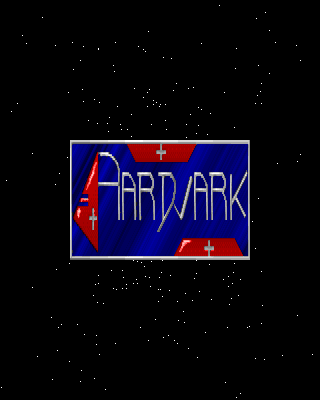
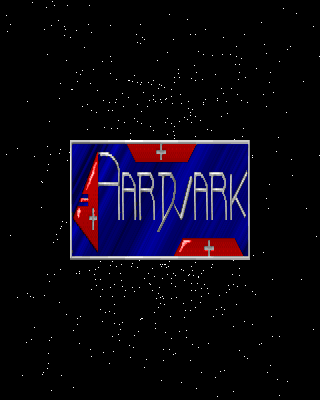
Add the Settlers II DOS demo sources and refresh the DOS corpus shots
sources.md gains a ToyVM DOS game corpus section, kept separate from the
existing scene-demo corpus that tools/toyvm/fetch-demos.js fetches from
Hornet: this one is for official playable DOS game demos and shareware,
mounted with the companion files a game needs rather than as isolated
executables.

The first entry is the six preserved Settlers II DOS demo builds, with the
v1.02 archive inspected locally: 3,579,784 bytes, SHA-256 b3b96739..., 181
entries expanding to 8.8 MB, launched START.BAT -> S2.EXE with DOS4GW, Miles
drivers, maps and music alongside -- so S2.EXE alone is not a valid fixture.
It is a DOS/4GW, VESA, sound and filesystem workload, which is why it is worth
having: it takes the corpus past tiny single-file real-mode intros. No
redistribution grant was found, so the archive stays source-only.

The 18 refreshed corpus screenshots are recaptures of the same programs.

Claude-Session: https://claude.ai/code/session_01Fun73a5xAWbFiCkkqyVuRu

diff --git a/sources.md b/sources.md
@@ -33,7 +33,59 @@ and the payloads must remain out of the repository and deployed site.
   or electronic distribution, so the corpus records only a checksum-pinned,
   local-only fetch recipe.
 
-## Grand Theft Auto demos and Rockstar Classics
+## ToyVM DOS game corpus
+
+This is a separate source collection from ToyVM's scene-demo corpus. The
+existing corpus is fetched from the Hornet scene archive by
+`tools/toyvm/fetch-demos.js` and the generated gallery offers Pouët lookup
+links. This collection is for official playable DOS game demos and shareware,
+including the companion files a game needs rather than selecting isolated
+executables from demo-scene archives.
+
+An official demo download is not automatically permission to republish it.
+Record the upstream page, exact archive URL and digest here first; keep the
+payload out of the repository and public corpus until its redistribution terms
+have been checked separately.
+
+### The Settlers II DOS demos
+
+Verified 2026-08-28. The [Settlers II downloads
+page](https://settlers2.net/download/) preserves six public DOS demo builds.
+The maintainer says the files came from Blue Byte's FTP server; the convenient
+ZIP files are modern repackagings, while the page also links original
+self-extracting distributions where they survive.
+
+| Release | Language | Preserved ZIP | Size | Notes |
+|---|---|---|---:|---|
+| *Die Siedler II: Erste Demo* v0.15 | German | [`S2DEMO15.ZIP`](https://settlers2.net/downloads/demo/s2demo15.zip) | 20.8 MB | First public pre-release build; includes extra images and video. |
+| *Die Siedler II: Erste Demo* v0.16 | German | [`S2DEMO16.ZIP`](https://settlers2.net/downloads/demo/s2demo16.zip) | 3.79 MB | Commonly preserved compact version of the first demo. |
+| *The Settlers II: Veni Vidi Vici* v1.01 | English | [`SETTLER2.ZIP`](https://settlers2.net/downloads/demo/settler2_v101.zip) | 50.0 MB | Playable demo with the intro video and files not needed to run it. |
+| *The Settlers II: Veni Vidi Vici* v1.02 | English | [`SETTLER2.ZIP`](https://settlers2.net/wp-content/uploads/2012/09/settler2_v102.zip) | 3.41 MB | Compact playable demo; the preferred first ToyVM game fixture. |
+| *The Settlers II: Mission CD* v1.51 | English | [`S2MISS.ZIP`](https://settlers2.net/wp-content/uploads/2012/09/s2miss.zip) | 9.91 MB | Includes a map editor limited to 15 minutes and unable to save. |
+| *The Settlers II: Gold Edition* v1.51 | English | [`S2GOLD.ZIP`](https://settlers2.net/wp-content/uploads/2012/09/s2gold.zip) | 9.75 MB | Closely related to the Mission CD demo, with a few differing files. |
+
+The v1.02 ZIP was downloaded and inspected locally. It is 3,579,784 bytes with
+SHA-256
[1 lines of base64/hex data omitted]
+It contains 181 entries and expands to 8,844,950 bytes. The launch path is
+`START.BAT` to `S2.EXE` (1,897,074 bytes), with `DOS4GW.EXE`, Miles sound
+drivers, maps, saved state, graphics, music and other files in sibling
+directories. A corpus importer must therefore retain the full extracted tree;
+`S2.EXE` alone is not a valid fixture.
+
+This is a DOS/4GW game, not a native Windows release. Its included readme asks
+for roughly 7 MB of XMS memory and VESA VBE support; its Windows 95 “Autorun”
+note describes launching the DOS program from Windows. The demo is a useful
+ToyVM target precisely because it broadens the corpus beyond tiny real-mode,
+single-file intros into a protected-mode, VESA, mouse, sound and filesystem
+workload. DOS Games Archive describes v1.02 as a playable demo containing the
+[tutorial and an exclusive single-player
+scenario](https://www.dosgamesarchive.com/download/the-settlers-ii-veni-vidi-vici).
+It is a demo, not shareware, and no explicit redistribution grant was found in
+the included `README.TXT`; keep the archive source-only unless a separate grant
+is established.
+
+### Grand Theft Auto demos and Rockstar Classics
 
 Verified 2026-08-30. The preserved official **Grand Theft Auto** DOS demo is
 the Liberty City, 24-bit high-resolution release. The exact 9,531,378-byte
